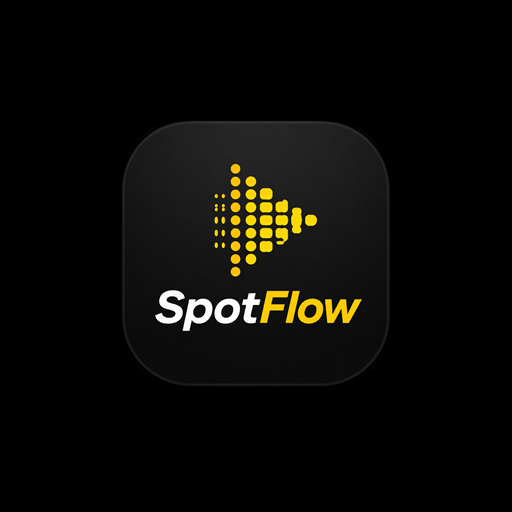
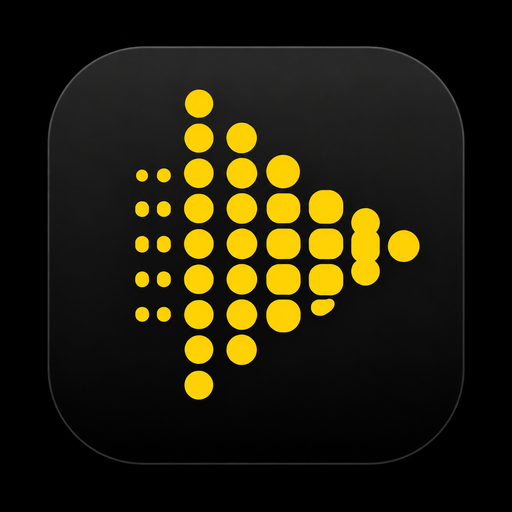
deploy: da844d2 v0.0.0 [staging] pon. 21. 09. 2026 14:36

diff --git a/sw.js b/sw.js
@@ -1,1 +1,1 @@
-if(!self.define){let s,e={};const i=(i,n)=>(i=new URL(i+".js",n).href,e[i]||new Promise(e=>{if("document"in self){const s=document.createElement("script");s.src=i,s.onload=e,document.head.appendChild(s)}else s=i,importScripts(i),e()}).then(()=>{let s=e[i];if(!s)throw new Error(`Module ${i} didn’t register its module`);return s}));self.define=(n,r)=>{const o=s||("document"in self?document.currentScript.src:"")||location.href;if(e[o])return;let l={};const c=s=>i(s,o),u={module:{uri:o},exports:l,require:c};e[o]=Promise.all(n.map(s=>u[s]||c(s))).then(s=>(r(...s),l))}}define(["./workbox-9c191d2f"],function(s){"use strict";self.skipWaiting(),s.clientsClaim(),s.precacheAndRoute([{url:"spotflow-logo.png",revision:"9ff837beaae7fa1dc3f49606cdd8426b"},{url:"notification.mp3",revision:"495b007e540929ee01e7f0ebe2cb47cc"},{url:"index.html",revision:"3c096403a1c0a8f4221b2de4c1bd3cd7"},{url:"icons.svg",revision:"3b4fcfcf393eca4d264dca4a4663bc37"},{url:"favicon.svg",revision:"7e840862161341271697daa99a40d76b"},{url:"icons/preview-512.png",revision:"50a3182d126662bba15eb9903e26a877"},{url:"icons/icon.svg",revision:"6c73a8a7912e82b07e328a619e6c216f"},{url:"icons/icon-512.png",revision:"7958b3c0cb12ccc383d257f6e2b194dd"},{url:"icons/icon-512-maskable.png",revision:"86b296d72561b1eeda6afdf1441270af"},{url:"icons/icon-192.png",revision:"09d17d572ba2cedfdfe89932da5b8564"},{url:"fonts/fonts.css",revision:"e4f489587bd2df9a90fa72673d0f4624"},{url:"assets/workbox-window.prod.es5-Bd17z0YL.js",revision:null},{url:"assets/web-BoTWg5G7.js",revision:null},{url:"assets/supabase--UDbRXaP.js",revision:null},{url:"assets/Sponzorstva-BbzejlET.js",revision:null},{url:"assets/Settings-DakPZRs1.js",revision:null},{url:"assets/rolldown-runtime-DAXXjFlN.js",revision:null},{url:"assets/purify.es-Bu4Grnl0.js",revision:null},{url:"assets/Promocije-DrfM7Emm.js",revision:null},{url:"assets/PdfActionsButton-TozaLCXQ.js",revision:null},{url:"assets/jsx-runtime-BvIZmjn5.js",revision:null},{url:"assets/jspdf.es.min-79JPXMIx.js",revision:null},{url:"assets/index.es-CsyJHXpw.js",revision:null},{url:"assets/index-CilvVGHQ.js",revision:null},{url:"assets/index-BBM51wi9.css",revision:null},{url:"assets/html2canvas-CLVA0Ark.js",revision:null},{url:"assets/docxParse-CSU2G-Ha.js",revision:null},{url:"assets/DocxImporter-CdGfws0U.js",revision:null},{url:"assets/Analytics-Bau46WOa.js",revision:null},{url:"notification.mp3",revision:"495b007e540929ee01e7f0ebe2cb47cc"},{url:"icons/icon-192.png",revision:"09d17d572ba2cedfdfe89932da5b8564"},{url:"icons/icon-512-maskable.png",revision:"86b296d72561b1eeda6afdf1441270af"},{url:"icons/icon-512.png",revision:"7958b3c0cb12ccc383d257f6e2b194dd"},{url:"icons/preview-512.png",revision:"50a3182d126662bba15eb9903e26a877"}],{}),s.cleanupOutdatedCaches(),s.registerRoute(new s.NavigationRoute(s.createHandlerBoundToURL("index.html")))});
+if(!self.define){let s,e={};const i=(i,n)=>(i=new URL(i+".js",n).href,e[i]||new Promise(e=>{if("document"in self){const s=document.createElement("script");s.src=i,s.onload=e,document.head.appendChild(s)}else s=i,importScripts(i),e()}).then(()=>{let s=e[i];if(!s)throw new Error(`Module ${i} didn’t register its module`);return s}));self.define=(n,r)=>{const o=s||("document"in self?document.currentScript.src:"")||location.href;if(e[o])return;let l={};const c=s=>i(s,o),u={module:{uri:o},exports:l,require:c};e[o]=Promise.all(n.map(s=>u[s]||c(s))).then(s=>(r(...s),l))}}define(["./workbox-9c191d2f"],function(s){"use strict";self.skipWaiting(),s.clientsClaim(),s.precacheAndRoute([{url:"spotflow-logo.png",revision:"9ff837beaae7fa1dc3f49606cdd8426b"},{url:"notification.mp3",revision:"495b007e540929ee01e7f0ebe2cb47cc"},{url:"index.html",revision:"3c096403a1c0a8f4221b2de4c1bd3cd7"},{url:"icons.svg",revision:"3b4fcfcf393eca4d264dca4a4663bc37"},{url:"favicon.svg",revision:"7e840862161341271697daa99a40d76b"},{url:"icons/preview-512.png",revision:"50a3182d126662bba15eb9903e26a877"},{url:"icons/icon.svg",revision:"6c73a8a7912e82b07e328a619e6c216f"},{url:"icons/icon-512.png",revision:"0f5421dbe9c3d6a44ce99fe96fd1f09b"},{url:"icons/icon-512-maskable.png",revision:"0f5421dbe9c3d6a44ce99fe96fd1f09b"},{url:"icons/icon-192.png",revision:"8986c247d0fce627fef579439beb439e"},{url:"fonts/fonts.css",revision:"e4f489587bd2df9a90fa72673d0f4624"},{url:"assets/workbox-window.prod.es5-Bd17z0YL.js",revision:null},{url:"assets/web-BoTWg5G7.js",revision:null},{url:"assets/supabase--UDbRXaP.js",revision:null},{url:"assets/Sponzorstva-BbzejlET.js",revision:null},{url:"assets/Settings-DakPZRs1.js",revision:null},{url:"assets/rolldown-runtime-DAXXjFlN.js",revision:null},{url:"assets/purify.es-Bu4Grnl0.js",revision:null},{url:"assets/Promocije-DrfM7Emm.js",revision:null},{url:"assets/PdfActionsButton-TozaLCXQ.js",revision:null},{url:"assets/jsx-runtime-BvIZmjn5.js",revision:null},{url:"assets/jspdf.es.min-79JPXMIx.js",revision:null},{url:"assets/index.es-CsyJHXpw.js",revision:null},{url:"assets/index-CilvVGHQ.js",revision:null},{url:"assets/index-BBM51wi9.css",revision:null},{url:"assets/html2canvas-CLVA0Ark.js",revision:null},{url:"assets/docxParse-CSU2G-Ha.js",revision:null},{url:"assets/DocxImporter-CdGfws0U.js",revision:null},{url:"assets/Analytics-Bau46WOa.js",revision:null},{url:"notification.mp3",revision:"495b007e540929ee01e7f0ebe2cb47cc"},{url:"icons/icon-192.png",revision:"8986c247d0fce627fef579439beb439e"},{url:"icons/icon-512-maskable.png",revision:"0f5421dbe9c3d6a44ce99fe96fd1f09b"},{url:"icons/icon-512.png",revision:"0f5421dbe9c3d6a44ce99fe96fd1f09b"},{url:"icons/preview-512.png",revision:"50a3182d126662bba15eb9903e26a877"}],{}),s.cleanupOutdatedCaches(),s.registerRoute(new s.NavigationRoute(s.createHandlerBoundToURL("index.html")))});
